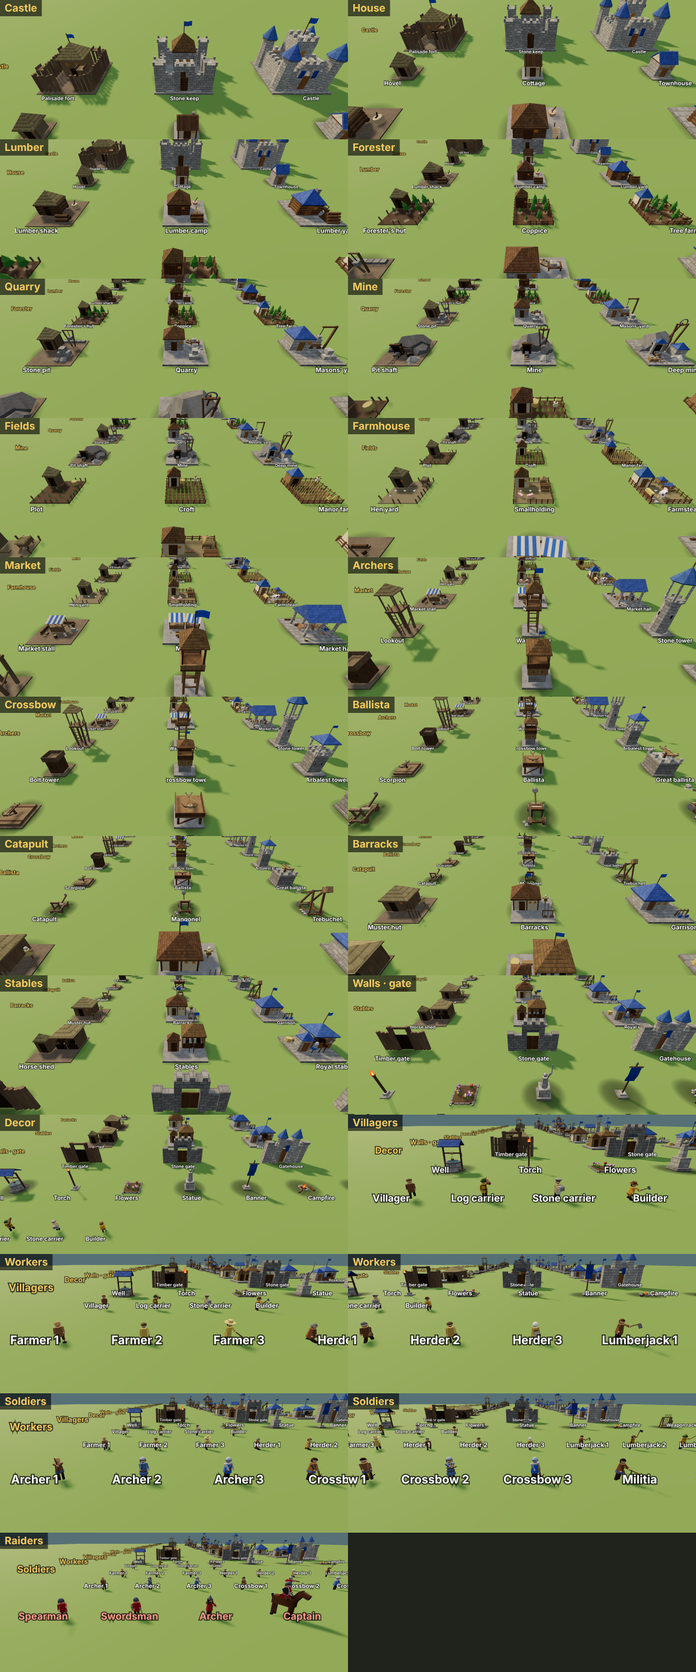
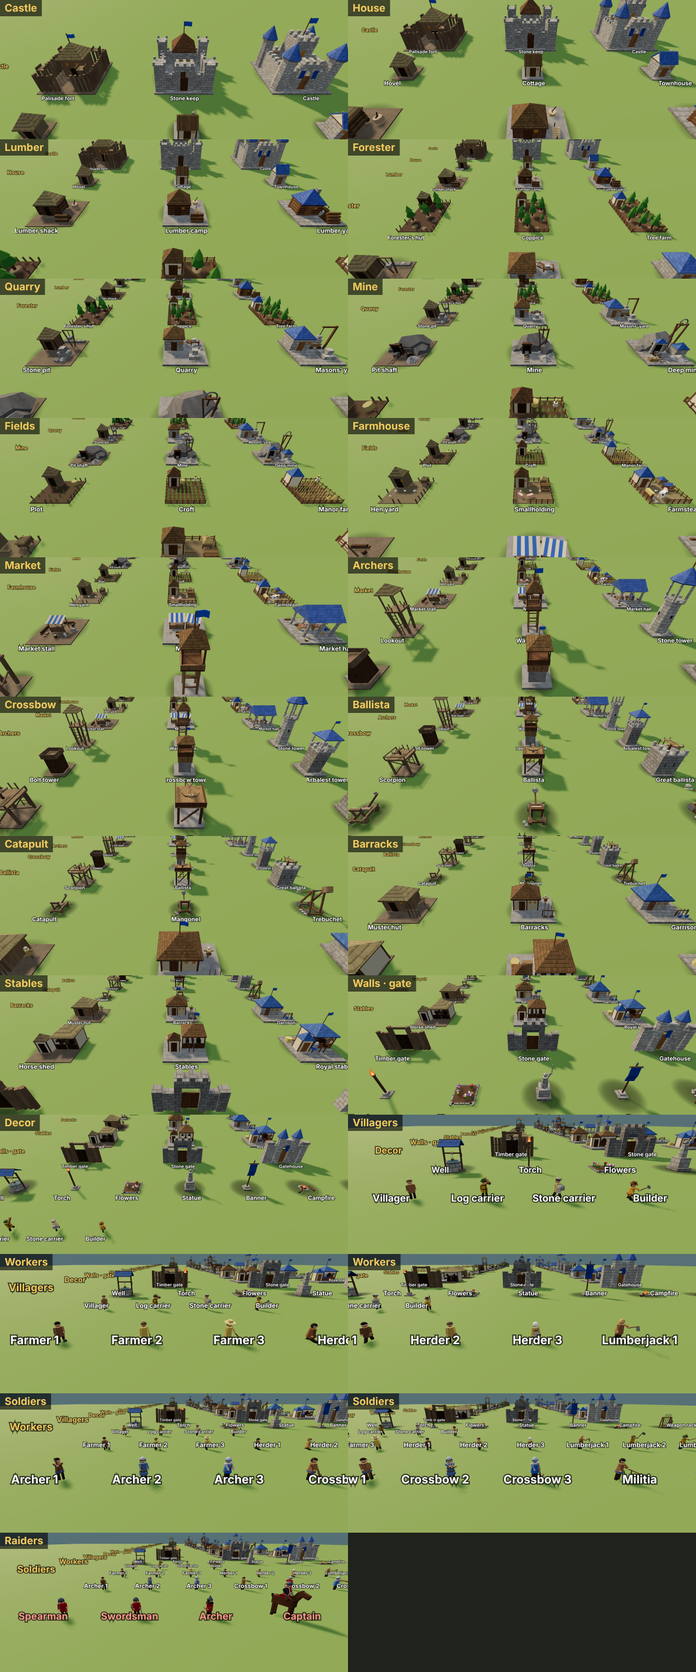
Cream walls and brown posts on farm, coppice and stables huts, taller crossbow towers, ballista decks to match with ladders, a 2x3 forester
- Smallholding (and every tier-2/3 plot hut) gets brown corner posts; coppice and manor farm barn cream with brown posts
- Stables: cream walls with brown posts on every tier, the armoury hut centred on its door
- Crossbow towers raised on every tier; ballista decks now stand as high as the crossbow tower of their tier, each with a proper ladder up the back
- Forester plot is 2 x 3 tiles (faces front or back), with bigger trees spread over it

Claude-Session: https://claude.ai/code/session_01AE8sRRsVdpH9ETfQvtppox

diff --git a/index.html b/index.html
@@ -478,7 +478,7 @@ const DEF = {
             up: [{ wood: 25, gold: 30 }, { stone: 25, gold: 50 }], tiers: ['Market stall', 'Market', 'Market hall'], key: '9' },
   // the other economy picks (one of each pair before a game): a grove grown on its own plot, a mine dug down into its own ground,
   // a yard of animals; none of them needs forest or rock nearby
-  forester: { size: 2, name: 'Forester', maxdh: 1.6, plot: true, hp: [100, 140, 200], cost: { gold: 30, wood: 5 },
+  forester: { size: 2, dz: 3, faces: [0, 2], name: 'Forester', maxdh: 1.6, plot: true, hp: [100, 140, 200], cost: { gold: 30, wood: 5 },
             up: [{ gold: 55, stone: 10 }, { gold: 85, stone: 25 }], workers: [1, 2, 3], grove: [5, 7, 8], grow: [40, 34, 28], chop: [4, 5.7, 6.5],
             tiers: ["Forester's hut", 'Coppice', 'Tree farm'] },
   mine:   { size: 2, name: 'Mine', maxdh: 2.6, hp: [160, 230, 320], cost: { gold: 30, wood: 20 },
@@ -1310,7 +1310,7 @@ const DOOR = {
   barracks: [[-1, .42], [-1, .42], [-1, .42]],
   mine: [[-.55, .55], [-.55, .55], [-.55, .55]],
   stables: [[-1, .4], [-1, .4], [-1, .4]],         // the armoury hut at the front left
-  forester: [[-1.05, -.62], [-1.05, -.62], [-1.05, -.62]],   // the hut at the back of the plot: log carriers cross the plot to it     // the adit: in through the timber (stone) portal in the face of the mound
+  forester: [[-1.05, -1.66], [-1.05, -1.66], [-1.05, -1.66]],   // the hut at the back of the plot: log carriers cross the plot to it     // the adit: in through the timber (stone) portal in the face of the mound
 };
 // buildings the player can turn (walls and gates have their own E–W / N–S rotation); face 0 = +z, 1 = +x, 2 = -z, 3 = -x
 const FACING = { market: 1, house: 1, lodge: 1, quarry: 1, barracks: 1, farm: 1, tower: 1, castle: 1, well: 1, torch: 1, flowers: 1, statue: 1 };
@@ -1319,7 +1319,7 @@ const faceRot = (f, x, z) => { const a = f * Math.PI / 2, c = Math.round(Math.co
 // the tile in front of the door when the building faces f, lined up with the door so villagers walk straight in
 function doorCell(ev, type, f) {
   const lat = DOOR[type] ? DOOR[type][0][0] : ev.s === 2 ? -1 : 0, cx = (ev.x0 + ev.x1) / 2, cz = (ev.z0 + ev.z1) / 2;
-  const [dx, dz] = faceRot(f, lat, 0), [nx, nz] = faceRot(f, 0, ev.s * CELL / 2 + CELL / 2);
+  const [dx, dz] = faceRot(f, lat, 0), [nx, nz] = faceRot(f, 0, (f % 2 ? ev.s : ev.sz || ev.s) * CELL / 2 + CELL / 2);
   return { a: Math.floor((cx + dx + nx) / CELL), b: Math.floor((cz + dz + nz) / CELL), bit: [1, 8, 4, 2][f], f };
 }
 // someone has to be able to stand in front of the door
@@ -1738,7 +1738,8 @@ function makeFarm(tier) {
     const hd = new THREE.Mesh(new THREE.SphereGeometry(.12, 6, 5), M.hay); hd.position.set(1.1, 1.25, -.9); g.add(hd);
   }
   if (tier === 3) { // barn + hay
-    g.add(box(1.1, 1.3, .9, M.wood, -1.15, .7, -1.15)); g.add(pyramid(.85, .7, .85, M.roofBlue, 1.7, -1.15, -1.15)); g.add(box(DOOR_W, DOOR_H, .05, DOOR_M[1], -1.15, .08 + DOOR_H / 2, -.69));   // farm doors are all the old dark brown
+    g.add(box(1.1, 1.3, .9, M.plaster, -1.15, .7, -1.15)); g.add(pyramid(.85, .7, .85, M.roofBlue, 1.7, -1.15, -1.15));
+    for (const sx of [-1, 1]) for (const sz of [-1, 1]) g.add(box(.08, 1.32, .08, M.timber, -1.15 + sx * .53, .71, -1.15 + sz * .43));   // brown corner posts g.add(box(DOOR_W, DOOR_H, .05, DOOR_M[1], -1.15, .08 + DOOR_H / 2, -.69));   // farm doors are all the old dark brown
     for (const [sx, sz] of [[1.35, 1.35], [.75, 1.42]]) {     // stooks: sheaves leaned together
       for (let n = 0; n < 4; n++) { const a = n / 4 * Math.PI * 2, sh = cyl(.06, .09, .55, 6, M.hay, sx + Math.cos(a) * .08, .32, sz + Math.sin(a) * .08); sh.rotation.z = Math.cos(a) * .25; sh.rotation.x = -Math.sin(a) * .25; g.add(sh); }
     }
@@ -1888,21 +1889,23 @@ const mineRockM = mat('#79746b'), penM = mat('#7c6b4a'), henM = mat('#efe8da'), 
   groveTrunkM = mat('#5a3e26'), groveLeafM = mat('#3f6a2c'), groveLeaf2M = mat('#4f7d34');
 addGrit(mineRockM, 'rock');
 // a fence round a 2x2 plot (open at the front left, where the plot's door tile is); rough leaning stakes at tier 1, posts and rails after
-function plotFence(g, tier) {
-  const gap = (x, z) => z > 1.7 && x > -1.5 && x < -.5;
-  for (let s = -1.75; s <= 1.76; s += .5) for (const [x, z] of [[s, -1.75], [s, 1.75], [-1.75, s], [1.75, s]]) {
+function plotFence(g, tier, hd = 1.75) {                 // hd: half the plot's depth (a 2x3 plot is deeper than it is wide)
+  const gap = (x, z) => z > hd - .05 && x > -1.5 && x < -.5, posts = [];
+  for (let s = -1.75; s <= 1.76; s += .5) posts.push([s, -hd], [s, hd]);
+  for (let s = -hd; s <= hd + .01; s += .5) posts.push([-1.75, s], [1.75, s]);
+  for (const [x, z] of posts) {
     if (gap(x, z) || (tier === 1 && hash(x * 3, z * 5) < .3)) continue;
     const p = box(.07, .55, .07, tier === 1 ? M.rough : M.timber, x, .27, z); if (tier === 1) p.rotation.z = (hash(x, z) - .5) * .35; g.add(p);
   }
-  if (tier > 1) for (const [x, z, w, d] of [[0, -1.75, 3.5, .05], [-1.75, 0, .05, 3.5], [1.75, 0, .05, 3.5], [.6, 1.75, 2.3, .05], [-1.6, 1.75, .3, .05]])
+  if (tier > 1) for (const [x, z, w, d] of [[0, -hd, 3.5, .05], [-1.75, 0, .05, hd * 2], [1.75, 0, .05, hd * 2], [.6, hd, 2.3, .05], [-1.6, hd, .3, .05]])
     for (const y of [.25, .45]) g.add(box(w, .05, d, M.timber, x, y, z));
 }
 // a small hut at the plot's back left with its door to the front (the door everyone uses): tier 1 daub or logs under old thatch,
 // tier 2 a log roof, tier 3 plastered with the blue roof
-function plotHut(g, tier, wallM, w = 1.2, d = .9) {
-  const x = -1.05, z = -1.15, h = 1.28;
+function plotHut(g, tier, wallM, w = 1.2, d = .9, z = -1.15) {
+  const x = -1.05, h = 1.28;
   g.add(box(w, h, d, tier === 3 ? M.plaster : wallM, x, h / 2 + .06, z));
-  if (tier === 3) for (const sx of [-1, 1]) g.add(box(.08, h, .08, M.timber, x + sx * (w / 2 - .02), h / 2 + .06, z + d / 2 - .02));
+  if (tier >= 2) for (const sx of [-1, 1]) for (const sz of [-1, 1]) g.add(box(.08, h + .02, .08, M.timber, x + sx * (w / 2 - .02), h / 2 + .06, z + sz * (d / 2 - .02)));   // brown corner posts
   g.add(pyramid(w * .78, .8, d / w * 1.05, tier === 1 ? M.thatchOld : tier === 2 ? M.thatch : M.roofBlue, h + .06 + .4, x, z));
   g.add(box(DOOR_W, DOOR_H, .05, DOOR_M[tier], x, .08 + DOOR_H / 2, z + d / 2 + .02));
   g.add(box(.2, .18, .04, M.glow, x + .38, .85, z + d / 2 + .02));
@@ -1910,7 +1913,9 @@ function plotHut(g, tier, wallM, w = 1.2, d = .9) {
 // forester: a fenced plot of young trees planted in rows (the trees are drawn by updateEco so they grow and get felled), the
 // forester's hut at the back left; tier 1 a sapling bundle and a chopping block, tier 2 a stack of cut poles, tier 3 a log pile
 // and a sawhorse on the far side
-const GROVE_AT = [[.3, -1.2], [1.25, -1.2], [-1.2, .05], [.05, .05], [1.25, .05], [-.6, 1.25], [.55, 1.25], [-.1, -.55]];
+// the plot is 2 x 3 tiles (4 m wide, 6 m deep): room for trees nearer the size of the woods' own
+const FOREST_HD = 2.75, GROVE_K = 1.5;
+const GROVE_AT = [[.5, -2.1], [1.3, -.9], [-.9, -.9], [.2, .1], [-1.1, .95], [1.25, .95], [-.45, 1.9], [.6, 2.25]];
 function makeGroveTree() {
   const t = new THREE.Group();
   t.add(cyl(.035, .06, .6, 5, groveTrunkM, 0, .3, 0));
@@ -1919,18 +1924,18 @@ function makeGroveTree() {
 }
 function makeForester(tier) {
   const g = new THREE.Group();
-  g.add(box(3.5, .07, 3.5, M.soil, 0, .045, 0));
-  GROVE_AT.forEach(([x, z]) => g.add(cyl(.24, .27, .03, 8, M.court, x, .09, z)));   // hoed rings where the trees stand
-  plotFence(g, tier); plotHut(g, tier, M.log, 1.15, .85);
+  g.add(box(3.5, .07, FOREST_HD * 2, M.soil, 0, .045, 0));
+  GROVE_AT.forEach(([x, z]) => g.add(cyl(.3, .34, .03, 8, M.court, x, .09, z)));   // hoed rings where the trees stand
+  plotFence(g, tier, FOREST_HD); plotHut(g, tier, tier === 2 ? M.plaster : M.log, 1.15, .85, -2.15);   // the coppice: cream walls, brown posts
   if (tier === 1) {
-    g.add(cyl(.2, .22, .3, 8, M.log, -.2, .2, -1.45)); g.add(box(.03, .14, .18, M.iron, -.2, .44, -1.45));     // chopping block with the axe in it
-    for (let n = 0; n < 5; n++) { const s = box(.03, .7, .03, M.rough, 1.55 + n * .04, .4, -.3 + n * .05); s.rotation.z = .25; g.add(s); }   // bundled saplings
+    g.add(cyl(.2, .22, .3, 8, M.log, -.15, .2, -2.45)); g.add(box(.03, .14, .18, M.iron, -.15, .44, -2.45));     // chopping block with the axe in it
+    for (let n = 0; n < 5; n++) { const s = box(.03, .7, .03, M.rough, 1.55 + n * .04, .4, -1.9 + n * .05); s.rotation.z = .25; g.add(s); }   // bundled saplings
   } else {
-    for (let r = 0; r < 3; r++) for (let n = 0; n < 4 - r; n++) { const l = cyl(.07, .07, 1.0, 6, M.log, 1.5, .14 + r * .12, -.6 + n * .15 + r * .075); l.rotation.x = Math.PI / 2; g.add(l); }
+    for (let r = 0; r < 3; r++) for (let n = 0; n < 4 - r; n++) { const l = cyl(.07, .07, 1.0, 6, M.log, 1.5, .14 + r * .12, -2.3 + n * .15 + r * .075); l.rotation.x = Math.PI / 2; g.add(l); }
   }
   if (tier === 3) {
-    for (const sx of [-1, 1]) { const l = box(.05, .45, .05, M.timber, 1.45 + sx * .2, .25, 1.5); l.rotation.z = sx * .35; g.add(l); }
-    g.add(box(.6, .05, .06, M.timber, 1.45, .45, 1.5)); const lg = cyl(.08, .08, .7, 6, M.log, 1.45, .55, 1.5); lg.rotation.z = Math.PI / 2; g.add(lg);
+    for (const sx of [-1, 1]) { const l = box(.05, .45, .05, M.timber, 1.35 + sx * .2, .25, 2.45); l.rotation.z = sx * .35; g.add(l); }
+    g.add(box(.6, .05, .06, M.timber, 1.35, .45, 2.45)); const lg = cyl(.08, .08, .7, 6, M.log, 1.35, .55, 2.45); lg.rotation.z = Math.PI / 2; g.add(lg);
   }
   return g;
 }
@@ -2033,7 +2038,7 @@ function makeFarmhouse(tier) {
 // crossbow tower: squat and solid next to the archers' tall lookout, an open fighting top behind a parapet for two crossbowmen:
 // tier 1 a log blockhouse with a plank parapet, tier 2 stone below a timber hoarding under a log canopy, tier 3 stone with
 // battlements and the blue roof on corner piers
-const XBOW_K = .74, XBOW_TOP = [2.05, 2.35, 2.65].map(y => y * XBOW_K);   // fighting-top heights as drawn
+const XBOW_K = .74, XBOW_TOP = [2.45, 2.8, 3.15].map(y => y * XBOW_K);   // fighting-top heights as drawn
 // the town's blue flag on a short pole from the roof's peak, flying from the pole's top
 function xbowFlag(t, peak) { t.add(box(.04, 1.0, .04, M.timber, 0, peak + .4, 0)); t.add(flagBox(.42, .26, .02, M.flag, .23, peak + .76, 0)); }
 function makeCrossbowTower(tier, plinth) {
@@ -2075,7 +2080,7 @@ function makeCrossbowTower(tier, plinth) {
 // ballista: a great crossbow on a swivel (userData.turret, turned to the target by its gunner), a bolt laid in it when loaded
 // (userData.bolt): tier 1 a scorpion on a low timber deck, tier 2 a ballista up on a raised timber platform, tier 3 a great
 // ballista on a stone platform with a low battlement
-const BALLISTA_DECK = [.32, 1.16, 1.5], BALLISTA_K = [.85, 1, 1.28];
+const BALLISTA_DECK = XBOW_TOP.slice(), BALLISTA_K = [.85, 1, 1.28];
 // the ballista's draw (turret frame): the arm tips, the slider at rest (string straight) and drawn back; crew spots on the deck
 const BAL_TIP = [.52, .52, .294], BAL_REST = .29, BAL_DRAWN = -.22, BAL_LOADER = [.42, -.5], BAL_GUNNER = [-.34, -.6];
 function ballistaTurret(k) {
@@ -2107,17 +2112,32 @@ function ballistaTurret(k) {
 function makeBallista(tier, plinth) {
   const g = new THREE.Group(), deck = BALLISTA_DECK[tier - 1];
   if (plinth) g.add(box(2.0, 1.8, 2.0, tier === 2 ? M.plainStone : M.stone, 0, -.7, 0));
-  if (tier === 1) { g.add(box(1.7, .24, 1.7, M.rough, 0, .2, 0)); for (const sx of [-1, 1]) g.add(box(1.7, .06, .12, M.timber, 0, .31, sx * .6)); }
-  else if (tier === 2) {
+  // a ladder up the back to the deck: two rails standing clear of the platform's edge and rising past the deck, rungs between
+  const ladder = (z, m, y0) => {
+    const H = deck + .5 - y0;
+    for (const sx of [-1, 1]) g.add(box(.05, H, .05, m, sx * .22, y0 + H / 2, z));
+    for (let y = y0 + .25; y < deck + .05; y += .3) g.add(box(.44, .04, .04, m, 0, y, z));
+  };
+  if (tier === 1) {            // a scorpion on a rough log stage: four posts, cross-braced, a log deck, a low rail
+    for (const sx of [-1, 1]) for (const sz of [-1, 1]) g.add(box(.14, deck, .14, M.rough, sx * .72, deck / 2, sz * .72));
+    for (const sz of [-1, 1]) { const x = box(1.6, .07, .07, M.rough, 0, deck * .48, sz * .72); x.rotation.z = Math.atan2(deck * .8, 1.44); g.add(x); }
+    for (const sx of [-1, 1]) { const x = box(.07, .07, 1.6, M.rough, sx * .72, deck * .48, 0); x.rotation.x = -Math.atan2(deck * .8, 1.44); g.add(x); }
+    g.add(box(1.75, .14, 1.75, M.rough, 0, deck - .07, 0));
+    for (const [x, z, w, d] of [[.86, 0, .07, 1.75], [-.86, 0, .07, 1.75], [0, .86, 1.75, .07]]) g.add(box(w, .07, d, M.rough, x, deck + .28, z));
+    for (const [x, z] of [[.86, .86], [-.86, .86], [.86, -.86], [-.86, -.86]]) g.add(box(.07, .32, .07, M.rough, x, deck + .14, z));
+    ladder(-.95, M.rough, SLAB_TOP);
+  } else if (tier === 2) {
     for (const sx of [-1, 1]) for (const sz of [-1, 1]) g.add(box(.15, deck, .15, M.timber, sx * .72, deck / 2, sz * .72));
-    for (const sz of [-1, 1]) { const x = box(1.5, .08, .08, M.timber, 0, deck * .5, sz * .72); x.rotation.z = .55; g.add(x); }
+    for (const sz of [-1, 1]) { const x = box(1.6, .08, .08, M.timber, 0, deck * .5, sz * .72); x.rotation.z = Math.atan2(deck * .8, 1.44); g.add(x); }
+    for (const sx of [-1, 1]) { const x = box(.08, .08, 1.6, M.timber, sx * .72, deck * .5, 0); x.rotation.x = -Math.atan2(deck * .8, 1.44); g.add(x); }
     g.add(box(1.85, .12, 1.85, M.wood, 0, deck - .06, 0));
     for (const [x, z, w, d] of [[.9, 0, .06, 1.85], [-.9, 0, .06, 1.85], [0, .9, 1.85, .06]]) g.add(box(w, .35, d, M.timber, x, deck + .17, z));
-    for (let n = 0; n < 4; n++) g.add(box(.5, .05, .07, M.rough, 0, .2 + n * .27, -.95 - n * .02));   // steps up the back
+    ladder(-1.0, M.timber, .2);
   } else {
     g.add(box(1.8, deck - .2, 1.8, M.stone, 0, (deck - .2) / 2 + .2, 0)); g.add(box(1.9, .1, 1.9, M.stone2, 0, deck - .05, 0));
     for (const [x, z] of [[.8, .8], [-.8, .8], [.8, -.8], [-.8, -.8], [.8, 0], [-.8, 0], [0, .8]]) g.add(box(.26, .38, .26, M.stone2, x, deck + .19, z));
-    for (let n = 0; n < 5; n++) g.add(box(.45, .1, .22, M.stone2, 0, .25 + n * .27, -1.0 - n * .0));
+    for (const sx of [-1, 1]) g.add(box(.06, .3, .03, M.dark, sx * .38, deck * .55, .91));   // arrow slits
+    ladder(-1.02, M.timber, .2);                                                               // through the gap in the battlement at the back
   }
   const t = ballistaTurret(BALLISTA_K[tier - 1]); t.position.y = deck; g.add(t);
   return g;
@@ -2220,10 +2240,11 @@ function makeStables(tier, plinth) {
   if (!STALL_COATS.length) STALL_COATS.push(horseM, mat('#3b2a1e'), mat('#8a6a4a'));
   const g = new THREE.Group(), b = plinth ? .2 : SLAB_TOP;
   if (plinth) g.add(box(4.0, 1.8, 4.0, tier === 2 ? M.plainStone : M.stone, 0, -.7, 0));
-  const wallM = tier === 1 ? M.rough : tier === 2 ? M.wood : M.stone2, roofM = tier === 1 ? M.thatchOld : tier === 2 ? M.thatch : M.roofBlue;
+  const wallM = M.plaster, roofM = tier === 1 ? M.thatchOld : tier === 2 ? M.thatch : M.roofBlue;
   const sx0 = -.25, sx1 = 1.9, sz0 = -1.75, sz1 = .1, h = 1.45, cx = (sx0 + sx1) / 2, w = sx1 - sx0, dpt = sz1 - sz0;
   g.add(box(w, h, .12, wallM, cx, b + h / 2, sz0 + .06));                                   // back wall
   for (const x of [sx0 + .06, sx1 - .06]) g.add(box(.12, h, dpt, wallM, x, b + h / 2, (sz0 + sz1) / 2));
+  for (const x of [sx0 + .04, sx1 - .04]) for (const z of [sz0 + .04, sz1 - .02]) g.add(box(.1, h + .02, .1, M.timber, x, b + h / 2, z));   // brown corner posts
   const stalls = tier === 3 ? 3 : 2;
   for (let n = 1; n < stalls; n++) g.add(box(.08, .9, dpt - .2, M.timber, sx0 + n * w / stalls, b + .45, (sz0 + sz1) / 2));
   for (let n = 0; n < stalls; n++) {                                                        // half doors and a horse looking over each
@@ -2233,8 +2254,9 @@ function makeStables(tier, plinth) {
   g.add(box(w + .1, .1, .1, M.timber, cx, b + h - .05, sz1));
   const rf = pyramid(w * .74, .75, dpt / w * 1.25, roofM, b + h + .37, cx, (sz0 + sz1) / 2); g.add(rf);
   // the armoury hut at the front left, its door the building's
-  const hx = -1.05, hz = .2, hw = 1.05, hd = .85, hh = 1.25;
-  g.add(box(hw, hh, hd, tier === 3 ? M.stone2 : wallM, hx, b + hh / 2, hz));
+  const hx = -1, hz = .2, hw = 1.05, hd = .85, hh = 1.25;                                    // centred on the door (x -1)
+  g.add(box(hw, hh, hd, wallM, hx, b + hh / 2, hz));
+  for (const sx of [-1, 1]) for (const sz of [-1, 1]) g.add(box(.08, hh + .02, .08, M.timber, hx + sx * (hw / 2 - .02), b + hh / 2, hz + sz * (hd / 2 - .02)));
   g.add(pyramid(hw * .78, .6, hd / hw * 1.05, roofM, b + hh + .3, hx, hz));
   g.add(box(DOOR_W, DOOR_H, .05, DOOR_M[tier], -1, b + DOOR_H / 2, .4 + .23));
   g.add(cyl(.3, .32, .4, 8, M.hay, -1.45, b + .2, -1.1)); g.add(box(.7, .2, .25, M.wood, -.65, b + .1, -1.2));   // hay and a trough
@@ -2546,13 +2568,13 @@ function countRes(type, cx, cz) {
   return 0;
 }
 function evaluate(type, ci, cj, free) {
-  const T = DEF[type], s = T.size, x0 = ci * CELL, z0 = cj * CELL, x1 = x0 + s * CELL, z1 = z0 + s * CELL;
-  const r = { type, ci, cj, s, x0, z0, x1, z1, ok: true, reason: '' };
-  if (ci < 0 || cj < 0 || ci + s > N || cj + s > N) return { ...r, ok: false, reason: 'Off the map' };
-  if (MAP === 'pass') for (let b = cj; b < cj + s; b++) for (let a = ci; a < ci + s; a++) if (!passOpen((a + .5) * CELL, (b + .5) * CELL)) return { ...r, ok: false, reason: 'Too steep' };
-  for (let b = cj; b < cj + s; b++) for (let a = ci; a < ci + s; a++) { if (occB[b * N + a]) return { ...r, ok: false, reason: 'Occupied' }; if (bridgeCell[b * N + a]) return { ...r, ok: false, reason: 'Bridge' }; }
+  const T = DEF[type], s = T.size, sz = T.dz || s, x0 = ci * CELL, z0 = cj * CELL, x1 = x0 + s * CELL, z1 = z0 + sz * CELL;
+  const r = { type, ci, cj, s, sz, x0, z0, x1, z1, ok: true, reason: '' };
+  if (ci < 0 || cj < 0 || ci + s > N || cj + sz > N) return { ...r, ok: false, reason: 'Off the map' };
+  if (MAP === 'pass') for (let b = cj; b < cj + sz; b++) for (let a = ci; a < ci + s; a++) if (!passOpen((a + .5) * CELL, (b + .5) * CELL)) return { ...r, ok: false, reason: 'Too steep' };
+  for (let b = cj; b < cj + sz; b++) for (let a = ci; a < ci + s; a++) { if (occB[b * N + a]) return { ...r, ok: false, reason: 'Occupied' }; if (bridgeCell[b * N + a]) return { ...r, ok: false, reason: 'Bridge' }; }
   // solid buildings can't sit on another building's door cell, or villagers coming out get trapped there
-  if (!WALK[type] && type !== 'gate' && buildings.some(B => !B.dead && B.door && B.door.a >= ci && B.door.a < ci + s && B.door.b >= cj && B.door.b < cj + s))
+  if (!WALK[type] && type !== 'gate' && buildings.some(B => !B.dead && B.door && B.door.a >= ci && B.door.a < ci + s && B.door.b >= cj && B.door.b < cj + sz))
     return { ...r, ok: false, reason: type === 'wall' ? 'Blocks a door · use a gate' : 'Blocks a door' };
   // rocks stay: building over one would bury stone the masons can't mine any more
   if (rocks.some(q => q.amount > 0 && q.x > x0 - .5 && q.x < x1 + .5 && q.z > z0 - .5 && q.z < z1 + .5)) return { ...r, ok: false, reason: 'Rocks' };
@@ -2568,7 +2590,7 @@ function evaluate(type, ci, cj, free) {
   }
   // smart rotate: keep the player's facing if its door tile is open, else the nearest turn whose door is
   r.face = FACING[type] ? placeFace : 0;
-  const faces = T.noRoad ? [r.face] : [0, 3, 1, 2].map(k => (placeFace + k) % 4).filter(f => doorOk(doorCell(r, type, f)));
+  const faces = T.noRoad ? [r.face] : [0, 3, 1, 2].map(k => (placeFace + k) % 4).filter(f => (!T.faces || T.faces.includes(f)) && doorOk(doorCell(r, type, f)));
   if (!faces.length) return { ...r, ok: false, reason: 'Door blocked' };
   // and nobody may end up sealed in: the first of those turns that keeps every door, site and tower joined to the castle
   let cut = '';
@@ -2657,7 +2679,7 @@ function place(type, ci, cj, opts = {}) {
   const T = DEF[type];
   if (!opts.free) pay(T.cost);
   const B = { id: nextId++, type, tier: 1, ev, plinth: adapt, max: T.hp[0], hp: T.hp[0], cool: [], fed: true, mask: 0, rot: ROTATES[type] ? placeRot : 0, rotFixed: false };
-  for (let b = cj; b < cj + ev.s; b++) for (let a = ci; a < ci + ev.s; a++) { occB[b * N + a] = B; if (type !== 'gate') road[b * N + a] = 0; }
+  for (let b = cj; b < cj + (ev.sz || ev.s); b++) for (let a = ci; a < ci + ev.s; a++) { occB[b * N + a] = B; if (type !== 'gate') road[b * N + a] = 0; }
   const c = center(B), now = performance.now();
   const g = makeModel(type, 1, adapt, 0, B.rot); g.userData.B = B; B.group = g;
   if (adapt && type !== 'wall' && !T.movable) {          // walls follow the slope; a movable engine leaves the ground as it is
@@ -2823,7 +2845,7 @@ const skin = mat('#d6a982'), hatM = mat('#6b5236'), legM = mat('#3a2e22');
 // [x, z, half-width, half-depth] from the plot centre, by tier
 const OBST = {
   farm: { 1: [[-1.0, -1.2, .55, .4], [.9, -1.2, .3, .3]], 2: [[-1.0, -1.2, .55, .4], [-.15, -1.45, .28, .28], [1.1, -.9, .2, .2]], 3: [[-1.15, -1.15, .55, .45], [1.35, 1.35, .2, .2], [.75, 1.42, .2, .2]] },
-  forester: { 1: [[-1.05, -1.15, .55, .42]], 2: [[-1.05, -1.15, .6, .45]], 3: [[-1.05, -1.15, .6, .45], [1.45, 1.5, .3, .2]] },
+  forester: { 1: [[-1.05, -2.15, .55, .42]], 2: [[-1.05, -2.15, .6, .45]], 3: [[-1.05, -2.15, .6, .45], [1.35, 2.45, .3, .2]] },
   farmhouse: { 1: [[-1.0, -1.15, .6, .45], [1.15, -1.3, .32, .28]], 2: [[-1.0, -1.15, .65, .5], [1.15, -1.3, .32, .28], [1.25, -.25, .4, .35]],
     3: [[-1.0, -1.15, .65, .5], [1.15, -1.3, .32, .28], [1.25, -.25, .4, .35], [-1.3, .75, .3, .55]] },
 };
@@ -3285,7 +3307,9 @@ const mainRegion = (R = regions()) => doorRegion(castleB(), R);          // the 
 // the cells round a footprint, where builders stand
 function ringCells(ev) {
   const o = [], add = (a, b) => { if (a >= 0 && b >= 0 && a < N && b < N) o.push(b * N + a); };
-  for (let k = 0; k < ev.s; k++) { add(ev.ci + k, ev.cj - 1); add(ev.ci + k, ev.cj + ev.s); add(ev.ci - 1, ev.cj + k); add(ev.ci + ev.s, ev.cj + k); }
+  const sz = ev.sz || ev.s;
+  for (let k = 0; k < ev.s; k++) { add(ev.ci + k, ev.cj - 1); add(ev.ci + k, ev.cj + sz); }
+  for (let k = 0; k < sz; k++) { add(ev.ci - 1, ev.cj + k); add(ev.ci + ev.s, ev.cj + k); }
   return o;
 }
 const ringIn = (ev, R, id) => !!id && ringCells(ev).some(n => R[n] === id);
@@ -3300,7 +3324,7 @@ function villagerRegion(v, R = regions()) {
 function cutsOff(r, type, f) {
   const R = regions(), id = mainRegion(R); if (!id) return '';
   const pass = regPass.slice();
-  for (let b = r.cj; b < r.cj + r.s; b++) for (let a = r.ci; a < r.ci + r.s; a++) {
+  for (let b = r.cj; b < r.cj + (r.sz || r.s); b++) for (let a = r.ci; a < r.ci + r.s; a++) {
     const n = b * N + a, x = (a + .5) * CELL, z = (b + .5) * CELL;
     if (OBST[type] ? farmBlocked({ type, ev: r, face: f, tier: 1 }, x, z) : !WALK[type] && type !== 'gate') pass[n] = 0;
   }
@@ -4478,7 +4502,7 @@ function updateEco(dt) {
       for (const t of B.grove) {
         if (day && t.g < 1) t.g = Math.min(1, t.g + dt / T.grow[k]);
         t.cut = t.g < 1; const [wx, wz] = faceRot(B.face || 0, t.lx, t.lz); t.x = c.x + wx; t.z = c.z + wz;
-        t.m.position.set(t.lx, .07, t.lz); t.m.scale.setScalar(.22 + .78 * t.g); t.m.rotation.y = t.lx * 3.7;
+        t.m.position.set(t.lx, .07, t.lz); t.m.scale.setScalar((.22 + .78 * t.g) * GROVE_K); t.m.rotation.y = t.lx * 3.7;
       }
     } else if (B.type === 'farmhouse') {
       const G = ecoGroup(B);
@@ -4852,7 +4876,7 @@ $('#nightBtn').addEventListener('click', () => { if (PH.kind === 'day' && !gameO
 // ---------- ghost ----------
 const isTouch = matchMedia('(pointer: coarse)').matches;
 function hideGhost() { for (const t in ghosts) ghosts[t].visible = false; footLine.visible = ringLine.visible = reachLine.visible = false; cur = null; }
-const cellFor = (p, s) => s === 1 ? [Math.floor(p.x / CELL), Math.floor(p.z / CELL)] : [Math.round(p.x / CELL - s / 2), Math.round(p.z / CELL - s / 2)];
+const cellFor = (p, s, sz = s) => s === 1 && sz === 1 ? [Math.floor(p.x / CELL), Math.floor(p.z / CELL)] : [s === 1 ? Math.floor(p.x / CELL) : Math.round(p.x / CELL - s / 2), sz === 1 ? Math.floor(p.z / CELL) : Math.round(p.z / CELL - sz / 2)];
 function showGhostAt(point) {
   if (!tool || tool === 'select' || paused) return hideGhost();
   if (tool === 'road') {
@@ -4862,7 +4886,7 @@ function showGhostAt(point) {
     if (ev.ok) setHint(`<b>Path</b><i class="gap"></i>${costHTML(PATH_COST)}<i class="gap"></i><span class="cost" title="Walk speed"><span class="ico">${ICON.speed}</span>×${PATH_SPEED}</span>`, 'ok'); else setHint(ev.reason, 'bad');
     return;
   }
-  const T = DEF[tool], [ci, cj] = cellFor(point, T.size), ev = evaluate(tool, ci, cj);
+  const T = DEF[tool], [ci, cj] = cellFor(point, T.size, T.dz), ev = evaluate(tool, ci, cj);
   for (const t in ghosts) ghosts[t].visible = t === tool;
   const g = ghosts[tool], cx = (ev.x0 + ev.x1) / 2, cz = (ev.z0 + ev.z1) / 2;
   g.position.set(cx, adapt && tool !== 'wall' && ev.target != null ? ev.target : hAt(cx, cz), cz);
@@ -4987,7 +5011,7 @@ function tap(e) {
   if (hb) { select(hb); return; }
   if (!building) { const pt = pick(e), c = pt && cellAt(pt.x, pt.z); if (pt && road[c]) selectPath(c % N, Math.floor(c / N)); else deselect(); return; }
   const pt = pick(e); if (!pt) return;
-  const [ci, cj] = cellFor(pt, DEF[tool].size);
+  const [ci, cj] = cellFor(pt, DEF[tool].size, DEF[tool].dz);
   if (e.pointerType !== 'mouse' && !(cur && cur.ci === ci && cur.cj === cj && cur.type === tool && ghosts[tool].visible)) { showGhostAt(pt); return; }
   if (place(tool, ci, cj)) { sfx('click'); if (e.pointerType === 'mouse') showGhostAt(pt); else { hideGhost(); setHint('Placed'); } }
 }
@@ -5141,7 +5165,7 @@ function galLabel(text, color, x, z, big, k = 1) {
 }
 // the living parts drawn in place for the gallery: a full-grown grove, the yard's animals
 function galPreview(g, type, tier) {
-  if (type === 'forester') GROVE_AT.slice(0, DEF.forester.grove[tier - 1]).forEach(([x, z], i) => { const t = makeGroveTree(); t.position.set(x, .07, z); t.scale.setScalar(i % 3 === 2 ? .5 : 1); g.add(t); });
+  if (type === 'forester') GROVE_AT.slice(0, DEF.forester.grove[tier - 1]).forEach(([x, z], i) => { const t = makeGroveTree(); t.position.set(x, .07, z); t.scale.setScalar((i % 3 === 2 ? .5 : 1) * GROVE_K); g.add(t); });
   if (type === 'farmhouse') HERD[tier].forEach((kind, i) => { const a = makeAnimal(kind); a.position.set(-1.1 + (i % 3) * .9, .07, .1 + Math.floor(i / 3) * .8); a.rotation.y = i * 1.3; g.add(a); });
 }
 function buildGallery() {
@@ -5156,7 +5180,7 @@ function buildGallery() {
   const row = (title, depth, fill) => { const zc = z + depth / 2; galLabel(title, '#f2c95e', 1.5, zc, true); fill(zc, depth); gRows.push({ title, z: zc, depth }); z += depth + 3.4; };
   const add = (g, x, zc, turns) => { g.position.set(x, 0, zc); g.userData.turn = 0; gScene.add(g); gItems.push({ g, turns }); return g; };
   for (const type of ['castle', 'house', 'lodge', 'forester', 'quarry', 'mine', 'farm', 'farmhouse', 'market', 'tower', 'crossbow', 'ballista', 'catapult', 'barracks', 'stables']) {
-    const T = DEF[type], d = T.size * CELL;
+    const T = DEF[type], d = (T.dz || T.size) * CELL;
     row(T.name, d, zc => T.tiers.forEach((nm, i) => { const g = add(makeModel(type, i + 1, true, 0, 0), GAL_X[i], zc, true); galPreview(g, type, i + 1); galLabel(nm, '#fff', GAL_X[i], zc + d / 2 + 1.1); }));
   }
   // walls run into a gate from both sides: E–W wall, gate, wall

diff --git a/CLAUDE.md b/CLAUDE.md
@@ -88,21 +88,21 @@ The whole game is currently one self-contained file: `index.html` (~165 KB, thre
 |---|---|---|---|---|---|
 | castle | 3×3 | prebuilt | stone 60 wood 40 gold 70 / stone 100 gold 100 | gold 3/5/7, food 3/4/5, 4 archer posts, 3 residents | Palisade fort / Stone keep / Castle |
 | house | 1×1 | wood 15 | wood 25 gold 20 / wood 30 stone 20 gold 40 | gold 2/4/6, residents 2/3/4 | Hovel / Cottage / Townhouse |
-| farm ("Fields") | 2×2 | wood 15 | wood 20 gold 20 / wood 30 stone 15 gold 35 | a hut on every tier (T1 thatched mud hut, T2 croft hut: daub between corner posts under shingles, a hay bale beside it, T3 the barn); every farm door is the tier-1 dark brown (`DOOR_M[1]`); food 3/5/8 at full staff, workers 1/1/2; output × farmers at work ÷ workers (`farmersAt`: not building, hungry or posted; none = no food); the card's food stat shows the current figure, amber when short | Plot / Croft / Manor farm |
+| farm ("Fields") | 2×2 | wood 15 | wood 20 gold 20 / wood 30 stone 15 gold 35 | a hut on every tier (T1 thatched mud hut, T2 croft hut: daub between corner posts under shingles, a hay bale beside it, T3 the barn, cream plaster with brown corner posts); every farm door is the tier-1 dark brown (`DOOR_M[1]`); food 3/5/8 at full staff, workers 1/1/2; output × farmers at work ÷ workers (`farmersAt`: not building, hungry or posted; none = no food); the card's food stat shows the current figure, amber when short | Plot / Croft / Manor farm |
 | lodge ("Lumber") | 2×2 | gold 20 | gold 45 stone 10 / gold 75 stone 25 | reach 14, workers 2/3/4, `LUMBER_LOAD=2` wood/trip, chop 2.6 s | Lumber shack / Lumber camp / Lumber yard |
 | quarry | 2×2 | gold 25 wood 10 | gold 45 wood 20 / gold 75 wood 30 | reach 16, workers 2/3/4; each rock holds `ROCK_STONE` 10 stone (1 per trip) and never comes back (trees regrow after 45 s) | Stone pit / Quarry / Masons' yard |
 | tower | 1×1 | wood 15 gold 10 | wood 30 gold 30 / stone 40 gold 60 | 2 archers, dmg 7/9/12, range 11/13/15; shaft drawn at `TOWER_K` (.8/.8/.72, T2 also .74), roof held a fixed 1.55 m (`HEAD`) above the platform so archers fit; posts and shootY scale with `TOWER_K`; T3 is an open platform with a low parapet and a blue roof on stone columns | Lookout / Watchtower / Stone tower |
 | barracks | 2×2 | wood 25 gold 20 | wood 30 gold 35 stone 10 / stone 40 gold 60 | 3 soldiers (all tiers), hp 220/320/450; soldiers hp 70/100/140, dmg 7/10/14 every 0.9 s; hall on the left (door x −1), drill yard with weapon rack and practice dummy on the right | Muster hut / Barracks / Garrison |
-| stables | 2×2 | wood 30 gold 30 | wood 35 gold 45 stone 10 / stone 45 gold 75 | hp 300/430/620; the barracks pick that rides (`cavalry`): riders 2/3/3 gear up in the armoury hut at the front left (`DOOR.stables`), mount a horse (`mountHorse(v, ridingM)` blue cloth, in `v.kit`), `RIDER` hp 170/240/330 (Jack found them too costly and too fragile to hold a few raiders), dmg 9/13/18 every .8 s, ride at ×2.1 (`updateSoldier`), reach +.35, names Rider / Lancer / Knight; rally and recall like the barracks; dismount at dawn (`stripKit`); model: stable block with whole horses (`stallHorse`, same build as a rider's horse, coats `STALL_COATS`) standing in their stalls, heads out over the half doors, idling (`animHorses`, from `updateEco` and the gallery: heads nod, turn and now and then dip, tails swish, weight shifts), the armoury hut, hay, trough, saddle rack (T2+), flag at the top of its pole (T2+), a stand of armour (T3) | Horse shed / Stables / Royal stables |
-| crossbow | 1×1 | wood 20 gold 15 | wood 35 gold 35 / stone 45 gold 60 | the ranged pick: 2 crossbowmen (`weapon: 'crossbow'`; the tool: a stock from a butt at the shoulder, a grip under it in the right hand, a curved prod (six segments, tips swept back) strung to the nut, a bolt on top; aiming (`xbowPose`) swings the right arm in and straightens the tool (`pivot.rotation.z`) so the left hand rests against the stock; waiting between shots both arms hold still, the crossbow low; `xbowPoint`, short bolts `qbolt`), range 8/9/10, dmg 6/8/10, every .55/.48/.4 s; squat towers drawn at `XBOW_K` .74 (smaller than the archers' lookout) with an open fighting top (`XBOW_TOP`, already scaled): log blockhouse, stone under a timber hoarding and log canopy, stone with battlements and the blue roof; T2/T3 fly the town's flag from a short pole on the roof's peak (`xbowFlag`) | Bolt tower / Crossbow tower / Arbalest tower |
-| ballista | 1×1 | wood 30 gold 25 | wood 40 gold 45 / stone 50 gold 80 | siege: works only with both crew posted (`crew` [2,2,2], posted as a pair, `assignPosts`), loader winches (a=0), gunner turns the swivel (`userData.turret`) onto the nearest raider; curved bow arms (six tapering segments each); the string runs from each arm tip to the claw on a slider in the stock's groove (`BAL_TIP`, `BAL_REST`/`BAL_DRAWN`): the loader (on the deck, turret frame `BAL_LOADER`) turns the winch crank at the back, which hauls the slider and string back by a pulley rope (`prope`) as the reload runs, the bolt is laid in the groove once drawn, and the gunner (`BAL_GUNNER`) holds the trigger line (`trope`) from the claw and yanks it to loose, the slider and string flying forward (`ballistaCrew`; a gallery or unbuilt model shows a static drawn string, `staticString`); the bolt (`SHOT.bolt`, speed 25) flies dead straight (no arc: a heavy bolt, not an arrow) at its target and drives into the ground 1 m past it (within range): every raider within .7 m of its line takes full damage, and the strike splashes `splash` 1.2/1.4/1.7 m round where it lands (half at the edge), with dust and a small shake; the spent bolt stays stuck in the ground, slanting, for 3 s (`stickBolt`, `stuckBolts`); range 14/16/18, dmg 30/42/58, reload 3.2/2.9/2.6 s; scorpion on a low deck, ballista on a raised platform, great ballista on stone (`BALLISTA_DECK`, `BALLISTA_K`) | Scorpion / Ballista / Great ballista |
+| stables | 2×2 | wood 30 gold 30 | wood 35 gold 45 stone 10 / stone 45 gold 75 | hp 300/430/620; the barracks pick that rides (`cavalry`): riders 2/3/3 gear up in the armoury hut at the front left (`DOOR.stables`), mount a horse (`mountHorse(v, ridingM)` blue cloth, in `v.kit`), `RIDER` hp 170/240/330 (Jack found them too costly and too fragile to hold a few raiders), dmg 9/13/18 every .8 s, ride at ×2.1 (`updateSoldier`), reach +.35, names Rider / Lancer / Knight; rally and recall like the barracks; dismount at dawn (`stripKit`); model: stable block with whole horses (`stallHorse`, same build as a rider's horse, coats `STALL_COATS`) standing in their stalls, heads out over the half doors, idling (`animHorses`, from `updateEco` and the gallery: heads nod, turn and now and then dip, tails swish, weight shifts), every tier with cream plaster walls (`M.plaster`) and brown timber corner posts, the armoury hut centred on its door (x −1), hay, trough, saddle rack (T2+), flag at the top of its pole (T2+), a stand of armour (T3) | Horse shed / Stables / Royal stables |
+| crossbow | 1×1 | wood 20 gold 15 | wood 35 gold 35 / stone 45 gold 60 | the ranged pick: 2 crossbowmen (`weapon: 'crossbow'`; the tool: a stock from a butt at the shoulder, a grip under it in the right hand, a curved prod (six segments, tips swept back) strung to the nut, a bolt on top; aiming (`xbowPose`) swings the right arm in and straightens the tool (`pivot.rotation.z`) so the left hand rests against the stock; waiting between shots both arms hold still, the crossbow low; `xbowPoint`, short bolts `qbolt`), range 8/9/10, dmg 6/8/10, every .55/.48/.4 s; towers drawn at `XBOW_K` .74 with an open fighting top (`XBOW_TOP` 2.45/2.8/3.15 × `XBOW_K`, already scaled; raised from 2.05/2.35/2.65): log blockhouse, stone under a timber hoarding and log canopy, stone with battlements and the blue roof; T2/T3 fly the town's flag from a short pole on the roof's peak (`xbowFlag`) | Bolt tower / Crossbow tower / Arbalest tower |
+| ballista | 1×1 | wood 30 gold 25 | wood 40 gold 45 / stone 50 gold 80 | siege: works only with both crew posted (`crew` [2,2,2], posted as a pair, `assignPosts`), loader winches (a=0), gunner turns the swivel (`userData.turret`) onto the nearest raider; curved bow arms (six tapering segments each); the string runs from each arm tip to the claw on a slider in the stock's groove (`BAL_TIP`, `BAL_REST`/`BAL_DRAWN`): the loader (on the deck, turret frame `BAL_LOADER`) turns the winch crank at the back, which hauls the slider and string back by a pulley rope (`prope`) as the reload runs, the bolt is laid in the groove once drawn, and the gunner (`BAL_GUNNER`) holds the trigger line (`trope`) from the claw and yanks it to loose, the slider and string flying forward (`ballistaCrew`; a gallery or unbuilt model shows a static drawn string, `staticString`); the bolt (`SHOT.bolt`, speed 25) flies dead straight (no arc: a heavy bolt, not an arrow) at its target and drives into the ground 1 m past it (within range): every raider within .7 m of its line takes full damage, and the strike splashes `splash` 1.2/1.4/1.7 m round where it lands (half at the edge), with dust and a small shake; the spent bolt stays stuck in the ground, slanting, for 3 s (`stickBolt`, `stuckBolts`); range 14/16/18, dmg 30/42/58, reload 3.2/2.9/2.6 s; each tier's deck as high as its crossbow tower's fighting top (`BALLISTA_DECK` = `XBOW_TOP`): scorpion on a cross-braced rough log stage, ballista on a timber platform, great ballista on a stone tower with arrow slits; a ladder up the back of each (rails clear of the deck's edge, rising past it, rungs every .3 m; through the gap in the T3 battlement) (`BALLISTA_K`) | Scorpion / Ballista / Great ballista |
 | catapult | 1×1 | wood 40 gold 30 | wood 50 gold 50 / wood 40 stone 40 gold 90 | siege, 2 crew like the ballista: lobs a stone (`SHOT.stone`, high arc, leads walkers) that hurts everyone within 1.6/1.9/2.3 m (half at the edge), never at raiders closer than `minRange` 4; range 15/17/20, dmg 28/38/52, reload 5.5/5/4.5 s; the whole engine turns (`userData.turret`), the arm (`userData.arm`, `CATA_ARM` cocked/thrown) swings and is winched back; the cup opens off the arm's face (+z) and grows with the engine: catapult cup r .13 / stone .1, mangonel iron-banded cup r .19 / stone .14, trebuchet a big sling pouch hung from the arm's tip by two ropes and an iron ring / stone .2, and wheels on iron axles; the stone thrown scales the same way (`CATA_SHOT` ×.65/.95/1.35 of `SHOT.stone`; `fireArrow` returns its mesh), so cocked back it holds its stone face up, and the stone (`userData.bolt`) shows while loaded; no base, never flattens the ground (`noPlinth`, `movable`); its crew are the villagers themselves (never a stand-in figure): posted, they walk right up to their own spot (`assignPosts` points them at it), kneel and change into the tier's kit there (`crewUp`, `crewKit`, `v.crewT`; the engine won't fire until both have changed), step the last bit onto the spot, and man it (`B.figs[a]` is the villager, `v.crewOf`; `hideDefenders` keeps them); crew rig (`CATA_RIG`, in the engine's frame): a rope-wound winch drum at the back with a crank (`userData.crank`) the loader kneels at and turns while the arm is winched down, a winch rope from the drum to the arm (`wrope`, gone while the arm flies) and a trigger line (`trope`) from the release catch to the gunner's hands, who yanks it to loose (`catapultCrew`, `setRope`, `aimArm`, `engPt`); the spare stones (`userData.ammo`) vanish while it rolls and are back when it stops; effects grow with the tier but stay modest (`siegeLaunchFx`: a thump of dust at the base, from tier 2 a puff of smoke at the release; `blastFx` at the strike, ballista too: dust round the spot, clods of earth flung out (`debris`), a darker plume at tier 3; shake .05/.08/.11, ballista .05/.07/.09; `bigPuff` sprites scale by `k`); **Move** on its card (`#moveBtn`, `moveFor`, `startMove`, `updateMoves`): by night only with its crew ("No crew"): the gunner pushes from behind and the loader walks alongside; by day it waits ("Pusher coming") for a villager (`pickPusher`: free, idle ones first) to walk over (`v.push`, `updatePush`) and push it (`v.pushing` pose, both hands forward), let go onto standable ground when it stops (`standNear`); it rolls unloaded with the arm let up and is winched down again after; tap a tile, it rolls there at `MOVE_SPEED` .45 m/s along a walkable route holding one cell at a time (`occB`, `B.ev` follow it), can't shoot on the move, stops short if the way gets built over | Catapult / Mangonel / Trebuchet |
 | wall | 1×1 | wood 5 gold 2 | stone 6 gold 3 / stone 10 gold 10 | drag-paint, auto-tiles, no plinth | Palisade / Stone wall / Battlement |
 | gate | 1×1 | wood 15 gold 10 | stone 15 gold 20 / stone 25 gold 35 | auto-tiles with walls, no plinth | Timber gate / Stone gate / Gatehouse |
 | market | 2×2 | wood 20 gold 15 | wood 25 gold 30 / stone 25 gold 50 | no workers; the card's trade grid (`#cardTrade`, `TRADES`, rebuilt only when tier/affordability change) swaps 10 of one resource, in rows of two (left: buy with gold, right: sell for gold): 10 gold → wood 4 / stone 2 / food 6, and wood 10 → gold 4, stone 10 → gold 6, food 10 → gold 2 at tier 1; every amount +2 per tier; any time of day; what you get pops up (`floatRes`) and flies to its chip (`coinFly(x, y, z, n, kind)`, `RES_CHIP`). Model `makeMarket`: T1 one small stall under a blue/canvas striped awning (`M.awning`), T2 two stalls + hand cart, T3 open hall on stone pillars with a blue gable roof, barrels and goods under the roof, a blue sign hung by two chains from an iron bar on the middle front pillar; everything but the base drawn at `MARKET_K` .8; a few extra goods per tier: wheat barrels (`wheat`), five-log stacks (`logs`), cut-stone piles (`stones`), crates, sacks and barrels (Jack found a fuller set too busy); crates, sacks, barrels, produce | Market stall / Market / Market hall |
-| forester | 2×2 | gold 30 wood 5 | gold 55 stone 10 / gold 85 stone 25 | the wood pick that needs no forest: a walkable plot (`plot`, `OBST.forester`) where a grove of 5/7/8 trees (`GROVE_AT`) grows by day (40/34/28 s from sapling, `updateEco` keeps `B.grove` meshes on whatever model the building has, `ecoGroup`); workers 1/2/3 (lumberjacks; fewer than the lumber camp, so less wood; each tree takes `chop` 4/5.7/6.5 s to fell, about grow × workers ÷ grove less the walk, so a full crew has felled the grove just as the first tree is grown again) claim grown trees (`claimResource`), fell them back to saplings and carry `LUMBER_LOAD` across the plot straight into the hut at the back (`DOOR.forester`): the forester's own workers never use the door tile outside the plot: they commute to, idle by and go in and out at `yardDoor` (just in front of the hut door, inside the plot; `outerDoor(B, v)` is used by `goIn`/`exitDoor`/`updateWorker`); card shows trees grown | Forester's hut / Coppice / Tree farm |
+| forester | 2×3 (2 wide, 3 deep: `dz` 3; faces front or back only, `faces` [0, 2]; the only non-square footprint: `evaluate`, `doorCell`, `place`, `ringCells`, `cutsOff` and `cellFor` read `ev.sz`/`T.dz`) | gold 30 wood 5 | gold 55 stone 10 / gold 85 stone 25 | the wood pick that needs no forest: a walkable plot (`plot`, `OBST.forester`) where a grove of 5/7/8 trees (`GROVE_AT` over the 4 × 6 m plot, drawn at `GROVE_K` 1.5 so they come nearer the woods' own trees; `plotFence(g, tier, FOREST_HD)`, hut at the back left, `plotHut(..., z)`; T2 coppice hut cream plaster with brown corner posts) grows by day (40/34/28 s from sapling, `updateEco` keeps `B.grove` meshes on whatever model the building has, `ecoGroup`); workers 1/2/3 (lumberjacks; fewer than the lumber camp, so less wood; each tree takes `chop` 4/5.7/6.5 s to fell, about grow × workers ÷ grove less the walk, so a full crew has felled the grove just as the first tree is grown again) claim grown trees (`claimResource`), fell them back to saplings and carry `LUMBER_LOAD` across the plot straight into the hut at the back (`DOOR.forester`): the forester's own workers never use the door tile outside the plot: they commute to, idle by and go in and out at `yardDoor` (just in front of the hut door, inside the plot; `outerDoor(B, v)` is used by `goIn`/`exitDoor`/`updateWorker`); card shows trees grown | Forester's hut / Coppice / Tree farm |
 | mine | 2×2 | gold 30 wood 20 | gold 55 wood 25 / gold 85 wood 35 stone 10 | the stone pick that needs no rocks: workers 1/2/3 (masons; fewer than the quarry, so less stone) walk in at the adit (`DOOR.mine`) and stay underground (`state 'dig'`, `hideT` 1e9), one stone per 9/8/7 s each by day (float + pick sound); the cart rolls out along the rails with each load (`userData.cart`, `B.cartT`); now and then (40% of digs, one at a time, `B.hauler`) a miner comes out (`mineHaul`): to the cart (held out while they haul), lifts a stone, tips it onto the spoil heap and goes back in, walked as a chain of door walks (`doorWalk` takes `hold`, `face`, `on`, `next`); out at night like anyone indoors | Pit shaft / Mine / Deep mine |
-| farmhouse | 2×2 | wood 25 gold 10 | wood 30 gold 25 / wood 35 stone 15 gold 40 | the food pick: a walkable fenced yard (`plot`, `field` like the fields: food per payout × herders at work ÷ workers) with food 4/7/11, workers 1/2/2 (herders: ochre smock, linen coif, apron, feed pail `pail` scattering feed down on one knee: `TOOL_POSE.pail` crouch .65–.95); animals by tier (`HERD`: hens; + pigs; + one cow) wander the yard avoiding the coop, sty and hay rack (`penSpot`, `makeAnimal`), legs on hip pivots (`animalLeg`, `userData.legs`) stepping as they walk (hens left-right, pigs and the cow in diagonal pairs, `STEP_RATE`) and settling when they stop | Hen yard / Smallholding / Farmstead |
+| farmhouse | 2×2 | wood 25 gold 10 | wood 30 gold 25 / wood 35 stone 15 gold 40 | the food pick: a walkable fenced yard (`plot`, `field` like the fields: food per payout × herders at work ÷ workers) with food 4/7/11, T2/T3 house with brown corner posts (`plotHut` gives every tier-2/3 plot hut four timber posts); workers 1/2/2 (herders: ochre smock, linen coif, apron, feed pail `pail` scattering feed down on one knee: `TOOL_POSE.pail` crouch .65–.95); animals by tier (`HERD`: hens; + pigs; + one cow) wander the yard avoiding the coop, sty and hay rack (`penSpot`, `makeAnimal`), legs on hip pivots (`animalLeg`, `userData.legs`) stepping as they walk (hens left-right, pigs and the cow in diagonal pairs, `STEP_RATE`) and settling when they stop | Hen yard / Smallholding / Farmstead |
 | well | 1×1 | stone 5 | — | charm 0.25 | — |
 | torch | ⅓ tile | wood 2 | — | charm 0.1, walkable, night light | — |
 | flowers | 1×1 | gold 3 | — | charm 0.15, walkable | — |
